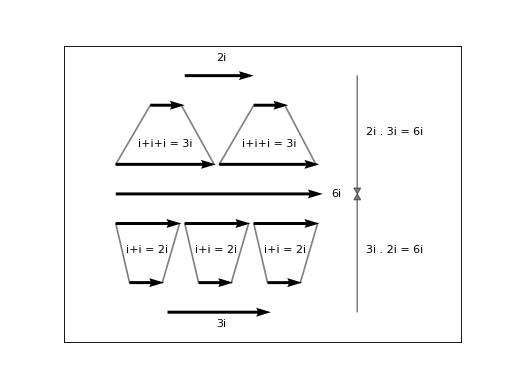
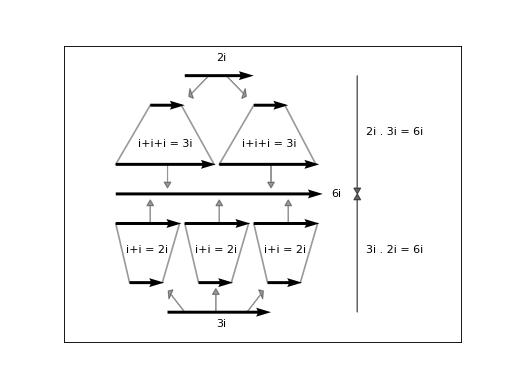
Add image

diff --git a/assets/Vectors/Multiplication.py b/assets/Vectors/Multiplication.py
@@ -29,24 +29,39 @@ y_direct = [0, 0, 0,
 #x1 , y1 = [1,2, 3.4], [1,2,4.3]
 #x2 , y2 = [3,4,0.7], [3,4,2.8]
 
-plt.plot([0.4, 0], [0, 1], color="k", alpha=0.5)
-plt.plot([1.35, 1.85], [0, 1], color="k", alpha=0.5)
+plt.plot([0.4, 0], [0, 1], color="k", alpha=0.4)
+plt.plot([1.35, 1.85], [0, 1], color="k", alpha=0.4)
 
-plt.plot([2.4, 2], [0, 1], color="k", alpha=0.5)
-plt.plot([3.35, 3.85], [0, 1], color="k", alpha=0.5)
+plt.plot([2.4, 2], [0, 1], color="k", alpha=0.4)
+plt.plot([3.35, 3.85], [0, 1], color="k", alpha=0.4)
 
-plt.plot([4.4, 4], [0, 1], color="k", alpha=0.5)
-plt.plot([5.35, 5.85], [0, 1], color="k", alpha=0.5)
+plt.plot([4.4, 4], [0, 1], color="k", alpha=0.4)
+plt.plot([5.35, 5.85], [0, 1], color="k", alpha=0.4)
 
-plt.plot([1, 0], [3, 2], color="k", alpha=0.5)
-plt.plot([1.9, 2.85], [3, 2], color="k", alpha=0.5)
+plt.plot([1, 0], [3, 2], color="k", alpha=0.4)
+plt.plot([1.9, 2.85], [3, 2], color="k", alpha=0.4)
 
-plt.plot([4, 3], [3, 2], color="k", alpha=0.5)
-plt.plot([4.9, 5.80], [3, 2], color="k", alpha=0.5)
+plt.plot([4, 3], [3, 2], color="k", alpha=0.4)
+plt.plot([4.9, 5.80], [3, 2], color="k", alpha=0.4)
 
 
-ax.arrow(7, -0.5, 0, 1.9, head_width=0.2, head_length=0.1, color="k", alpha=0.5)
-ax.arrow(7, 3.5, 0, -1.9, head_width=0.2, head_length=0.1, color="k", alpha=0.5)
+ax.arrow(7, -0.5, 0, 1.9, head_width=0.2, head_length=0.1, color="k", alpha=0.6)
+ax.arrow(7, 3.5, 0, -1.9, head_width=0.2, head_length=0.1, color="k", alpha=0.6)
+
+ax.arrow(2, -0.5, -0.4, 0.3, head_width=0.2, head_length=0.1, color="k", alpha=0.4)
+ax.arrow(2.9, -0.5, 0.0, 0.3, head_width=0.2, head_length=0.1, color="k", alpha=0.4)
+ax.arrow(3.8, -0.5, +0.4, 0.3, head_width=0.2, head_length=0.1, color="k", alpha=0.4)
+
+ax.arrow(1, 1, 0, 0.3, head_width=0.2, head_length=0.1, color="k", alpha=0.4)
+ax.arrow(3, 1, 0, 0.3, head_width=0.2, head_length=0.1, color="k", alpha=0.4)
+ax.arrow(5, 1, 0, 0.3, head_width=0.2, head_length=0.1, color="k", alpha=0.4)
+
+ax.arrow(1.5, 2, 0, -0.3, head_width=0.2, head_length=0.1, color="k", alpha=0.4)
+ax.arrow(4.5, 2, 0, -0.3, head_width=0.2, head_length=0.1, color="k", alpha=0.4)
+
+ax.arrow(2.7, 3.5, -0.5, -0.3, head_width=0.2, head_length=0.1, color="k", alpha=0.4)
+ax.arrow(3.2, 3.5, 0.5, -0.3, head_width=0.2, head_length=0.1, color="k", alpha=0.4)
+
 
 ax.text(2.9,-0.75,"3i")
 ax.text(2.9,3.75,"2i")
@@ -69,9 +84,12 @@ ax.quiver(x_pos,y_pos,x_direct,y_direct,
 
 ax.axis([-1.5, 10, -1, 4])
 
-##plt.grid(which="both")
 ax.set_xticks([])
 ax.set_yticks([])
 
+#plt.grid(which="both")
+#ax.set_xticks(range(-1,11))
+#ax.set_yticks(range(5))
+            
 plt.show()
 
